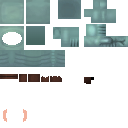
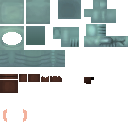
Configuration settings

Changed region(s): [[0.0, 0.625, 0.1562, 0.75]]

diff --git a/src/main/java/com/lexem/hexcodeevoke/interactions/EvokeHexCreatureInteraction.java b/src/main/java/com/lexem/hexcodeevoke/interactions/EvokeHexCreatureInteraction.java
@@ -6,7 +6,6 @@ import com.hypixel.hytale.component.Ref;
 import com.hypixel.hytale.component.Store;
 import com.hypixel.hytale.logger.HytaleLogger;
 import com.hypixel.hytale.math.util.ChunkUtil;
-import com.hypixel.hytale.math.util.MathUtil;
 import com.hypixel.hytale.math.vector.Rotation3f;
 import com.hypixel.hytale.protocol.BlockPosition;
 import com.hypixel.hytale.protocol.InteractionType;
@@ -17,14 +16,11 @@ import com.hypixel.hytale.server.core.entity.entities.Player;
 import com.hypixel.hytale.server.core.modules.interaction.interaction.CooldownHandler;
 import com.hypixel.hytale.server.core.modules.interaction.interaction.config.SimpleInteraction;
 import com.hypixel.hytale.server.core.universe.world.World;
-import com.hypixel.hytale.server.core.universe.world.chunk.BlockChunk;
-import com.hypixel.hytale.server.core.universe.world.chunk.WorldChunk;
-import com.hypixel.hytale.server.core.universe.world.chunk.section.BlockSection;
 import com.hypixel.hytale.server.core.universe.world.storage.EntityStore;
 import com.hypixel.hytale.server.npc.NPCPlugin;
 import com.lexem.hexcodeevoke.hexitems.HexItemRegistery;
-import it.unimi.dsi.fastutil.ints.*;
-import it.unimi.dsi.fastutil.objects.ObjectArrayList;
+import it.unimi.dsi.fastutil.ints.IntArrayList;
+import it.unimi.dsi.fastutil.ints.IntList;
 import org.joml.Vector3d;
 import org.joml.Vector3i;
 
@@ -32,7 +28,6 @@ import javax.annotation.Nonnull;
 import java.util.ArrayList;
 import java.util.List;
 import java.util.Map;
-import java.util.concurrent.ThreadLocalRandom;
 
 public class EvokeHexCreatureInteraction extends SimpleInteraction {
     private static final HytaleLogger LOGGER = HytaleLogger.forEnclosingClass();
@@ -42,7 +37,7 @@ public class EvokeHexCreatureInteraction extends SimpleInteraction {
                             SimpleInteraction.CODEC)
                     .build();
 
-    protected int range = 2     ;
+    protected int radius = 2;
     protected int maxCount = 1;
 
     @Override
@@ -63,8 +58,9 @@ public class EvokeHexCreatureInteraction extends SimpleInteraction {
         BlockPosition blockPosition = context.getTargetBlock();
         if (blockPosition == null) return;
 
-        Vector3i blockTargetPos = new Vector3i(blockPosition.x, blockPosition.y, blockPosition.z);
-        List<Vector3i> selectedPositions = this.searchBlocks(world, blockTargetPos);
+        Vector3d center = new Vector3d(blockPosition.x, blockPosition.y, blockPosition.z);
+        List<Vector3i> selectedPositions = gatherBlocks(center, radius, accessor);
+        LOGGER.atWarning().log("selectedPositions: %s", selectedPositions);
 
         if (selectedPositions.isEmpty()) {
             LOGGER.atWarning().log("evoke: block must be a Hex item");
@@ -79,6 +75,12 @@ public class EvokeHexCreatureInteraction extends SimpleInteraction {
             Rotation3f blockRotation = new Rotation3f(0.0F, (float) (rotation.yaw().getRadians() + Math.PI), 0.0F);
 
             BlockType blockType = world.getBlockType(blockPos);
+
+            if (blockType == null) {
+                LOGGER.atWarning().log("evoke: invalid block");
+                return;
+            }
+
             Map.Entry<String, String> hexItem = HexItemRegistery.getByBlockId(blockType.getId());
 
             if (hexItem == null) {
@@ -109,101 +111,39 @@ public class EvokeHexCreatureInteraction extends SimpleInteraction {
         return result;
     }
 
-    @Nonnull
-    private List<Vector3i> searchBlocks(@Nonnull World world, @Nonnull Vector3i position) {
-        IntList blockIds = this.getBlockIds();
-        if (blockIds.isEmpty()) {
-            return List.of();
-        } else {
-            int originX = MathUtil.floor(position.x);
-            int originY = MathUtil.floor(position.y);
-            int originZ = MathUtil.floor(position.z);
-            int radiusSquared = this.range * this.range;
-            EvokeHexCreatureInteraction.BlockSearchConsumer consumer = new EvokeHexCreatureInteraction.BlockSearchConsumer(
-                    originX, originY, originZ, radiusSquared, this.maxCount
-            );
-            int minY = Math.max(0, originY - this.range);
-            int maxY = Math.min(319, originY + this.range);
+    private List<Vector3i> gatherBlocks(Vector3d center, double radius, CommandBuffer<EntityStore> accessor) {
+        World world = accessor.getExternalData().getWorld();
+        List<Vector3i> gathered = new ArrayList<>();
+        int r = (int) Math.ceil(radius);
+        double radiusSq = radius * radius;
+        int picked = 0;
 
-            for (int x = originX - this.range & -32; x < originX + this.range; x += 32) {
-                for (int z = originZ - this.range & -32; z < originZ + this.range; z += 32) {
-                    WorldChunk chunk = world.getChunkIfInMemory(ChunkUtil.indexChunkFromBlock(x, z));
-                    if (chunk != null) {
-                        BlockChunk blockChunk = chunk.getBlockChunk();
+        int cx = (int) Math.floor(center.x);
+        int cy = (int) Math.floor(center.y);
+        int cz = (int) Math.floor(center.z);
 
-                        for (int y = minY; y < maxY; y += 32) {
-                            int sectionIndex = ChunkUtil.indexSection(y);
-                            if (sectionIndex >= 0 && sectionIndex < 10) {
-                                BlockSection section = blockChunk.getSectionAtIndex(sectionIndex);
-                                if (!section.isSolidAir() && section.containsAny(blockIds)) {
-                                    consumer.setSection(x, z, sectionIndex);
-                                    section.find(blockIds, consumer);
-                                }
-                            }
-                        }
-                    }
+        IntList hexItensIds = getBlockIds();
+
+        for (int dx = -r; dx <= r; dx++) {
+            for (int dy = -r; dy <= r; dy++) {
+                for (int dz = -r; dz <= r; dz++) {
+                    if (dx * dx + dy * dy + dz * dz > radiusSq) continue;
+                    if (picked >= maxCount) continue;
+
+                    int bx = cx + dx;
+                    int by = cy + dy;
+                    int bz = cz + dz;
+
+                    int blockId = world.getBlock(bx, by, bz);
+                    if (blockId == BlockType.EMPTY_ID) continue;
+                    if(!hexItensIds.contains(blockId)) continue;
+
+                    gathered.add(new Vector3i(bx, by, bz));
+                    picked++;
                 }
             }
-
-            return consumer.getPickedPositions();
-        }
-    }
-
-    private static class BlockSearchConsumer implements IntConsumer {
-        private final int originX;
-        private final int originY;
-        private final int originZ;
-        private final int radiusSquared;
-        private final int maxCount;
-        private final List<Vector3i> picked;
-        private int seen = 0;
-        private int chunkWorldX;
-        private int chunkWorldZ;
-        private int sectionBaseY;
-
-        BlockSearchConsumer(int originX, int originY, int originZ, int radiusSquared, int maxCount) {
-            this.originX = originX;
-            this.originY = originY;
-            this.originZ = originZ;
-            this.radiusSquared = radiusSquared;
-            this.maxCount = maxCount;
-            this.picked = new ObjectArrayList<>(maxCount);
         }
 
-        void setSection(int chunkWorldX, int chunkWorldZ, int sectionIndex) {
-            this.chunkWorldX = chunkWorldX;
-            this.chunkWorldZ = chunkWorldZ;
-            this.sectionBaseY = sectionIndex * 32;
-        }
-
-        @Override
-        public void accept(int blockIndex) {
-            int localX = ChunkUtil.xFromIndex(blockIndex);
-            int localY = ChunkUtil.yFromIndex(blockIndex);
-            int localZ = ChunkUtil.zFromIndex(blockIndex);
-            int worldX = this.chunkWorldX + localX;
-            int worldY = this.sectionBaseY + localY;
-            int worldZ = this.chunkWorldZ + localZ;
-            int dx = worldX - this.originX;
-            int dy = worldY - this.originY;
-            int dz = worldZ - this.originZ;
-            if (dx * dx + dy * dy + dz * dz <= this.radiusSquared) {
-                if (this.picked.size() < this.maxCount) {
-                    this.picked.add(new Vector3i(worldX, worldY, worldZ));
-                } else {
-                    int j = ThreadLocalRandom.current().nextInt(this.seen + 1);
-                    if (j < this.maxCount) {
-                        this.picked.set(j, new Vector3i(worldX, worldY, worldZ));
-                    }
-                }
-
-                this.seen++;
-            }
-        }
-
-        @Nonnull
-        List<Vector3i> getPickedPositions() {
-            return this.picked;
-        }
+        return gathered;
     }
 }